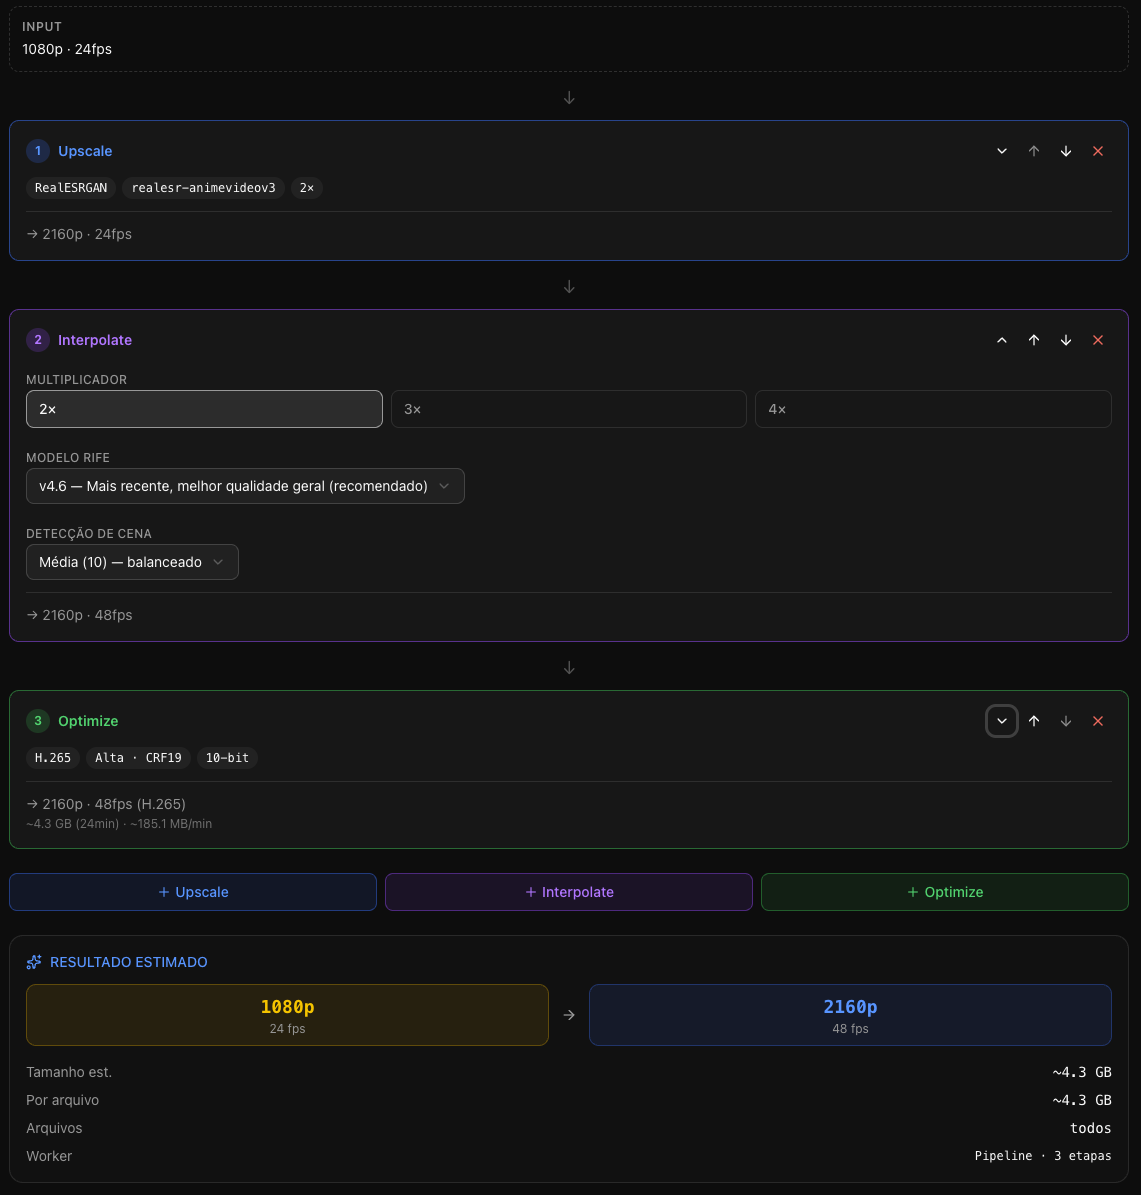
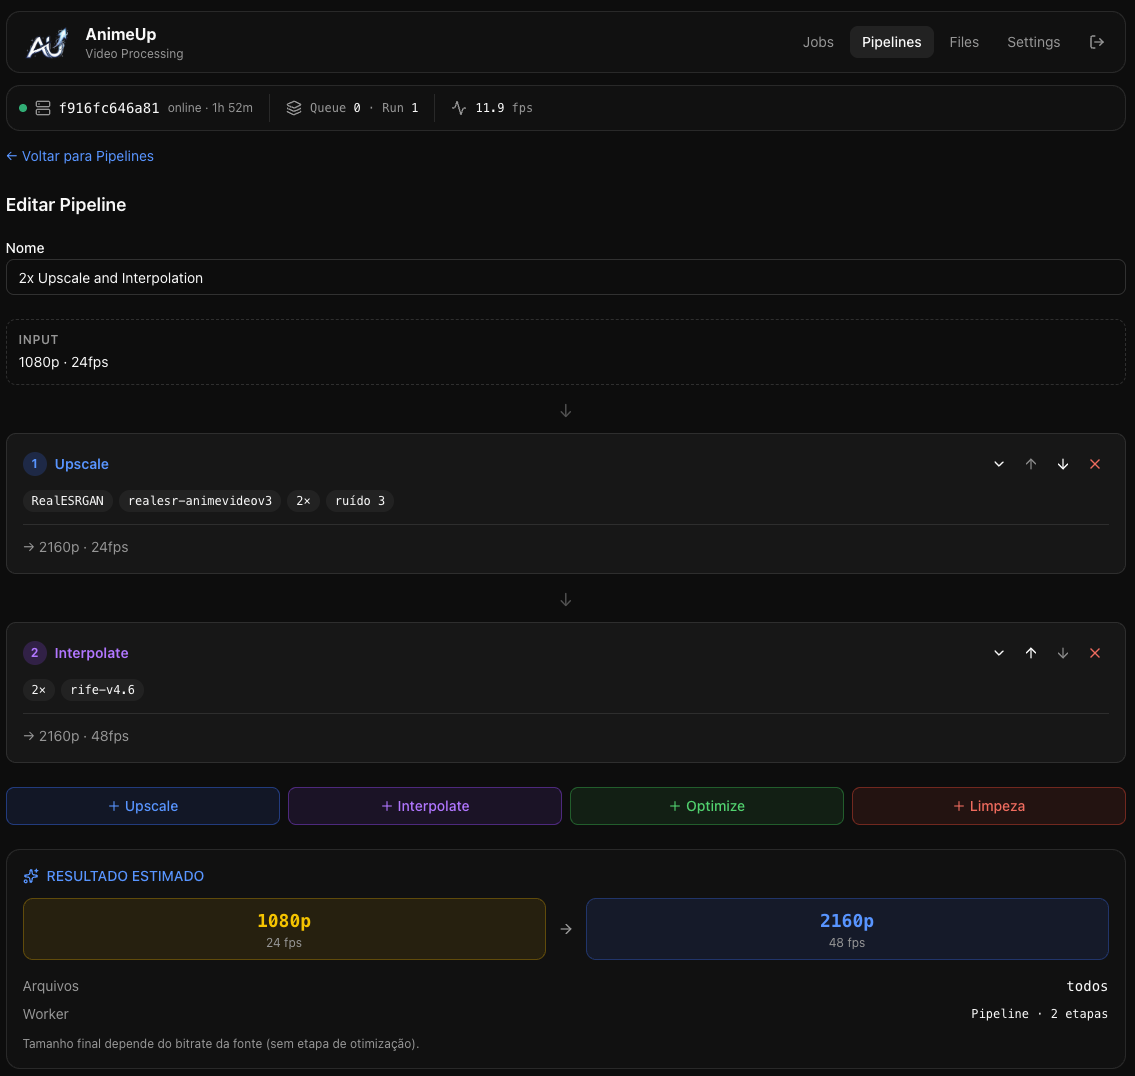
docs(readme): add job detail screenshot and refresh screenshots
Add docs/screenshots/job-detail.png as a third column in the Screenshots
table, and refresh the pipeline-editor and file-picker screenshots to
match the current UI.

diff --git a/README.md b/README.md
@@ -65,9 +65,9 @@ the Compose network.
 
 ## Screenshots
 
-| Pipeline editor | File picker |
-| :---: | :---: |
-| ![Pipeline editor](docs/screenshots/pipeline-editor.png) | ![File picker](docs/screenshots/file-picker.png) |
+| Pipeline editor | File picker | Job detail |
+| :---: | :---: | :---: |
+| ![Pipeline editor](docs/screenshots/pipeline-editor.png) | ![File picker](docs/screenshots/file-picker.png) | ![Job detail](docs/screenshots/job-detail.png) |
 
 ## Models
 